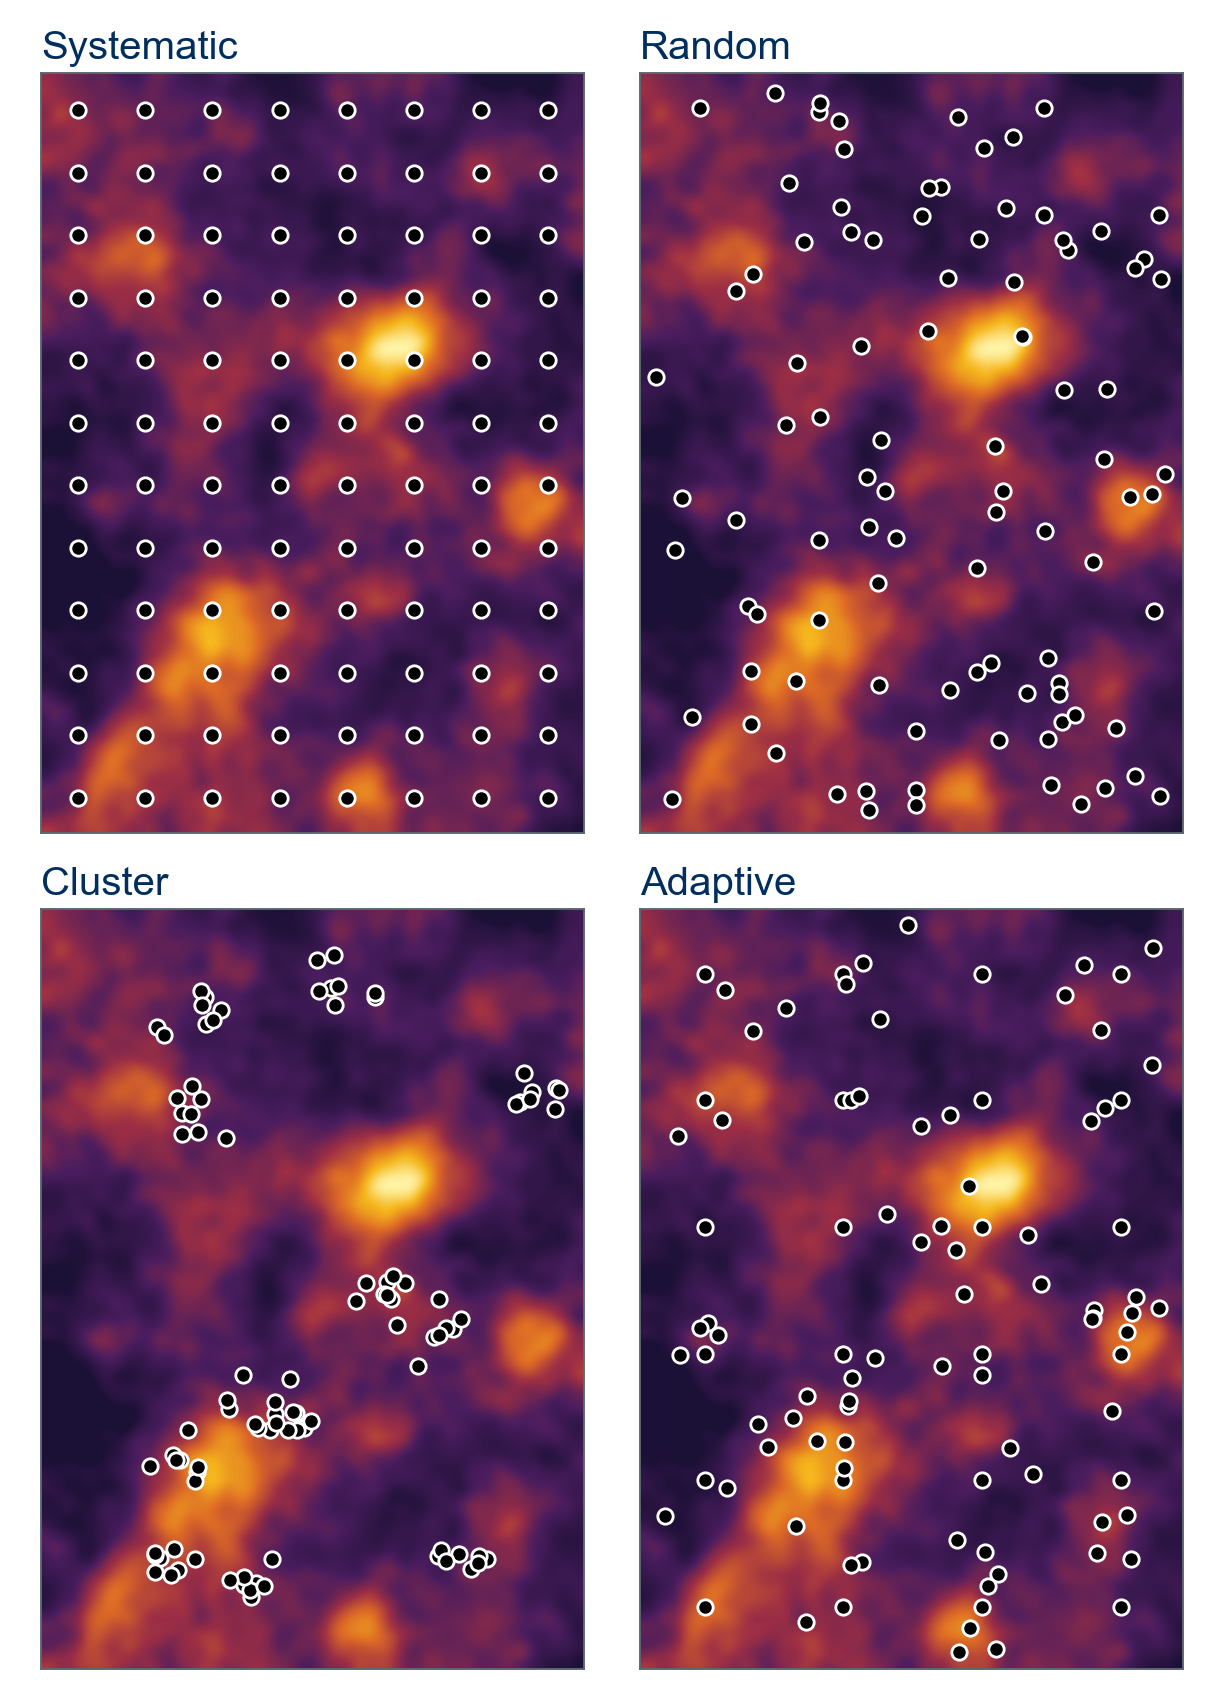
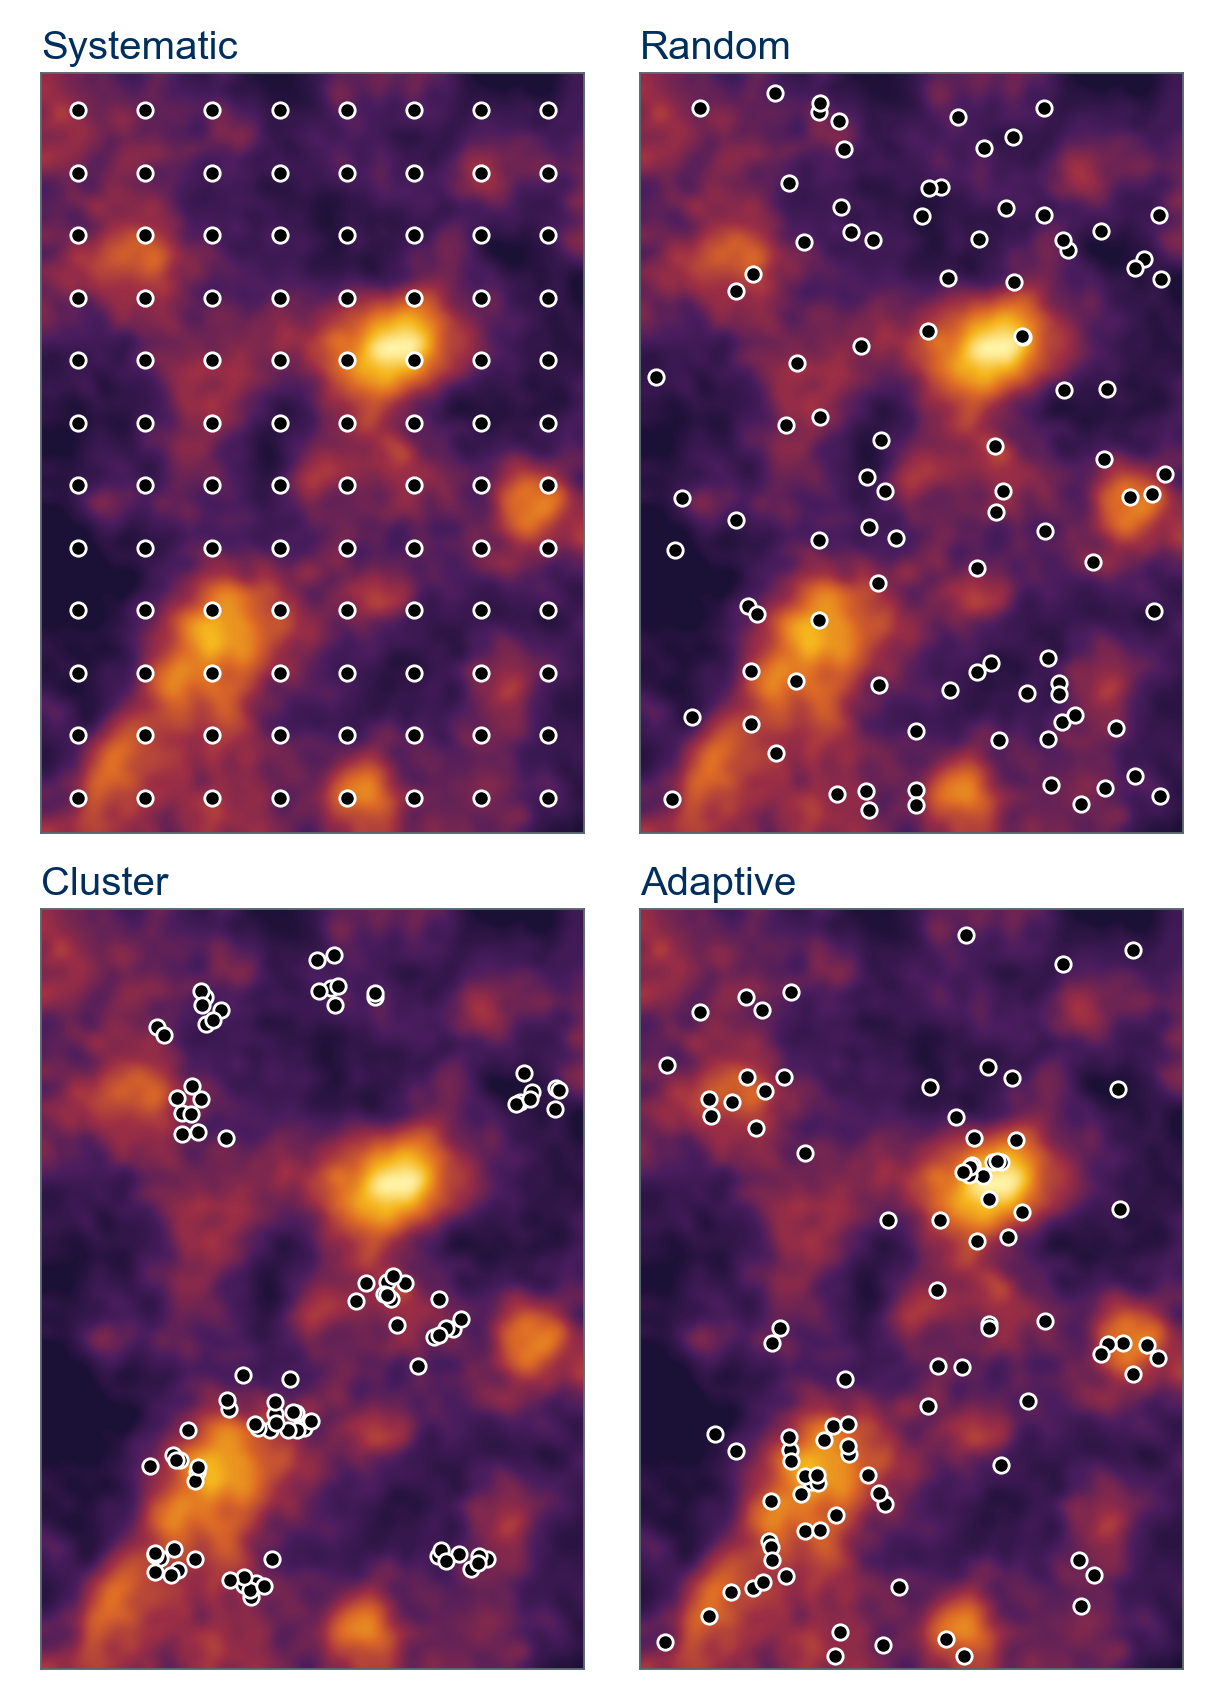
Week 9 Tuesday: adaptive sampling crowds the rich spots; gold-grade units spelled out
Adaptive now scatters 24 points at random, then places 72 more at random but
weighted toward high grade, so the dots look random yet cluster on and around
the richest pods. The scenario slide is retitled The Gold Prospecting Scenario
and gives the unit as grams of gold per tonne of rock (g/t), as does the colorbar.
The quiz's adaptive item is reworded to match.

diff --git a/docs/quizzes/interpolation/index.html b/docs/quizzes/interpolation/index.html
@@ -32,7 +32,7 @@ CE414Quiz.start({
       explanation: "A measurement beats an estimate wherever you have one. We interpolate because we cannot measure every location: it takes too long, costs too much, or is physically or legally impossible, like digging up a whole gold field to assay it. Interpolation fills the gaps inside the sampled region; outside it, it is extrapolation and every method gets worse."
     },
     {
-      prompt: "You have a coarse first look at a gold field and want to spend your samples where the grade changes fastest. Which design is that?",
+      prompt: "After a first scattered pass over a gold field, you put most of your remaining samples on and around the richest spots. Which design is that?",
       detail: "The four designs from class: systematic, random, cluster, adaptive.",
       options: [
         "Systematic: a regular grid of points",

diff --git a/tools/week09_tuesday_figures.py b/tools/week09_tuesday_figures.py
@@ -26,7 +26,7 @@ matplotlib.use("Agg")
 import matplotlib.pyplot as plt
 import numpy as np
 from matplotlib.colors import LinearSegmentedColormap
-from scipy.ndimage import gaussian_filter, sobel
+from scipy.ndimage import gaussian_filter
 
 ROOT = pathlib.Path(__file__).resolve().parent.parent
 IMG = ROOT / "slides" / "week-09" / "images"
@@ -126,18 +126,18 @@ designs = {"systematic": np.c_[gx.ravel(), gy.ravel()],
            "random": np.c_[rng.uniform(8, NX - 8, N), rng.uniform(8, NY - 8, N)]}
 centers = np.c_[rng.uniform(30, NX - 30, 12), rng.uniform(30, NY - 30, 12)]
 designs["cluster"] = np.vstack([c + rng.normal(0, 9, (8, 2)) for c in centers])
-# Adaptive: a coarse first pass on a 4 x 6 grid, then 72 infill points drawn where the grade changes fastest.
-grad = np.hypot(sobel(gaussian_filter(g, 6), 0), sobel(gaussian_filter(g, 6), 1))
-grad[:8], grad[-8:], grad[:, :8], grad[:, -8:] = 0, 0, 0, 0
-p = (grad / grad.sum()).ravel()
+# Adaptive: a first pass of 24 points scattered at random, then 72 infill points also placed at random but
+# weighted by the grade (cubed, so the richest ground dominates), so the dots crowd on and around the hot spots.
+rich = gaussian_filter(g, 5) ** 3
+rich[:8], rich[-8:], rich[:, :8], rich[:, -8:] = 0, 0, 0, 0
+p = (rich / rich.sum()).ravel()
 pick = rng.choice(p.size, 72, replace=False, p=p)
-cx, cy = np.meshgrid(np.linspace(35, NX - 35, 4), np.linspace(35, NY - 35, 6))
-designs["adaptive"] = np.vstack([np.c_[cx.ravel(), cy.ravel()],
+designs["adaptive"] = np.vstack([np.c_[rng.uniform(8, NX - 8, 24), rng.uniform(8, NY - 8, 24)],
                                  np.clip(np.c_[pick % NX, pick // NX] + rng.uniform(-3, 3, (72, 2)), 8, [NX - 8, NY - 8])])
 
 fig, ax = plt.subplots(figsize=(4.4, 5.6), dpi=200)
 im = gold_axes(ax)
-cb = fig.colorbar(im, ax=ax, fraction=0.05, pad=0.03); cb.set_label("Gold grade (g/t)", color=NAVY)
+cb = fig.colorbar(im, ax=ax, fraction=0.05, pad=0.03); cb.set_label("Gold grade (grams of gold per tonne of rock)", color=NAVY)
 fig.tight_layout(); fig.savefig(IMG / "ip-gold-grade.png"); plt.close(fig)
 
 for name, pts in designs.items():

diff --git a/slides/week-09/interpolation.md b/slides/week-09/interpolation.md
@@ -227,9 +227,9 @@ li[data-bespoke-marp-fragment="active"] .ls-pop { animation: tryit-pop 0.45s eas
 
 ---
 
-# The Scenario
+# The Gold Prospecting Scenario
 
-The map on the left is the real, fully known gold grade. In practice you never see it — you only get the handful of points you choose to sample.
+The map on the left is the real, fully known gold grade, in **grams of gold per tonne of rock** (g/t). In practice you never see it — you only get the handful of points you choose to sample.
 
 <div class="columns">
 <div>
@@ -246,7 +246,7 @@ The map on the left is the real, fully known gold grade. In practice you never s
 </div>
 </div>
 
-<!-- Left: the true gold grade in grams per tonne, made up for this scenario (tools/week09_tuesday_figures.py): a northeast-trending vein, a dozen ore pods of different sizes, and background variation. Right: the cartoon reason we care. The next four slides sample this same map. The whole point of the next four slides is that you must commit to a sampling design before you know what the surface looks like. -->
+<!-- Left: the true gold grade in grams of gold per tonne of rock (g/t, the unit assays report), made up for this scenario (tools/week09_tuesday_figures.py): a northeast-trending vein, a dozen ore pods of different sizes, and background variation. Right: the cartoon reason we care. The next four slides sample this same map. The whole point of the next four slides is that you must commit to a sampling design before you know what the surface looks like. -->
 
 ---
 
@@ -327,7 +327,7 @@ The map on the left is the real, fully known gold grade. In practice you never s
 
 - Without a way to identify where the feature varies most, you need several visits; sample density cannot be changed on the spot
 
-<!-- Adaptive is the best design and the hardest to execute, because it needs prior knowledge of the thing you are going out to measure. In practice it means a coarse first pass followed by targeted infill. Fixed the source's "can not" to "cannot." -->
+<!-- Adaptive is the best design and the hardest to execute, because it needs prior knowledge of the thing you are going out to measure. In practice it means a coarse first pass followed by targeted infill. The figure does exactly that: 24 points scattered at random, then 72 more placed at random but weighted toward high grade, so the dots look random yet crowd on and around the richest pods. Fixed the source's "can not" to "cannot." -->
 
 <!-- TODO(instructor): decide how much of sampling design belongs in CE 414 versus the statistics prerequisite, and whether to add a slide on sample size and spacing. -->
 
@@ -345,7 +345,7 @@ The map on the left is the real, fully known gold grade. In practice you never s
 
 ![h:360 center](images/ip-gold-grade.png)
 
-<!-- Vote now, while the four designs are fresh, and before discussing any of them. Each design has the same 96 points on the same map. The interesting argument is between adaptive and random: adaptive (a coarse first pass, then infill where the grade changes fastest) puts points where the surface changes fastest, which is where interpolation errors are largest, but it needs prior knowledge that a real project usually does not have. There is no answer key here on purpose. -->
+<!-- Vote now, while the four designs are fresh, and before discussing any of them. Each design has the same 96 points on the same map. The interesting argument is between adaptive and random: adaptive (24 points at random, then 72 more at random but weighted toward the richest ground, so they crowd on and around the hot spots) puts points where the surface changes fastest, which is where interpolation errors are largest, but it needs prior knowledge that a real project usually does not have. There is no answer key here on purpose. -->
 
 ---
 
